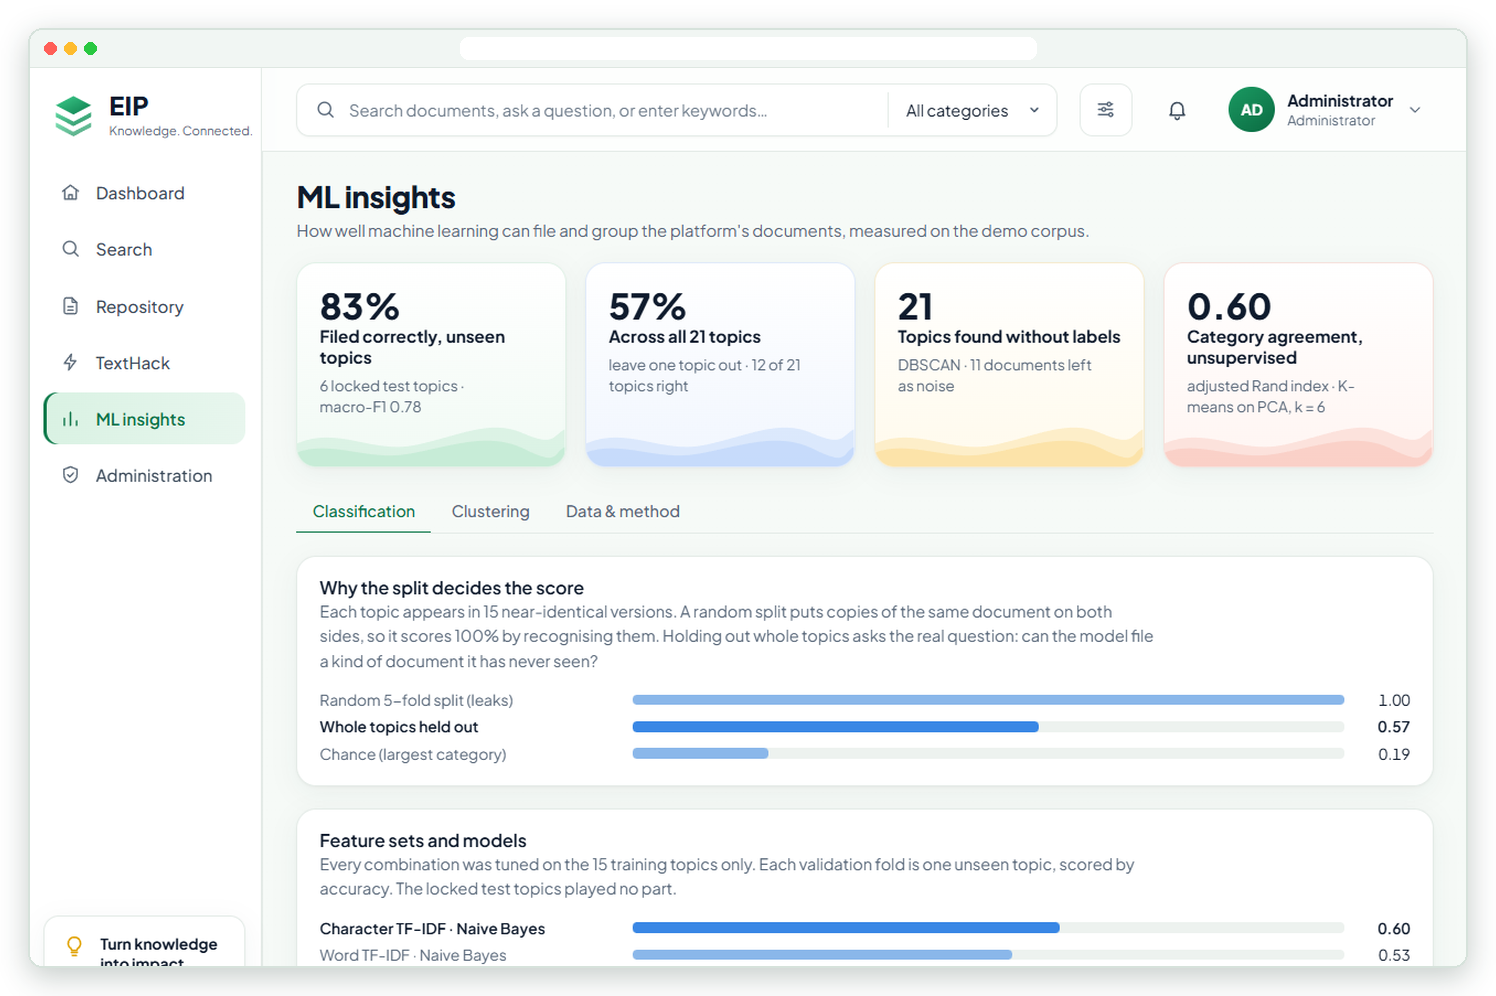
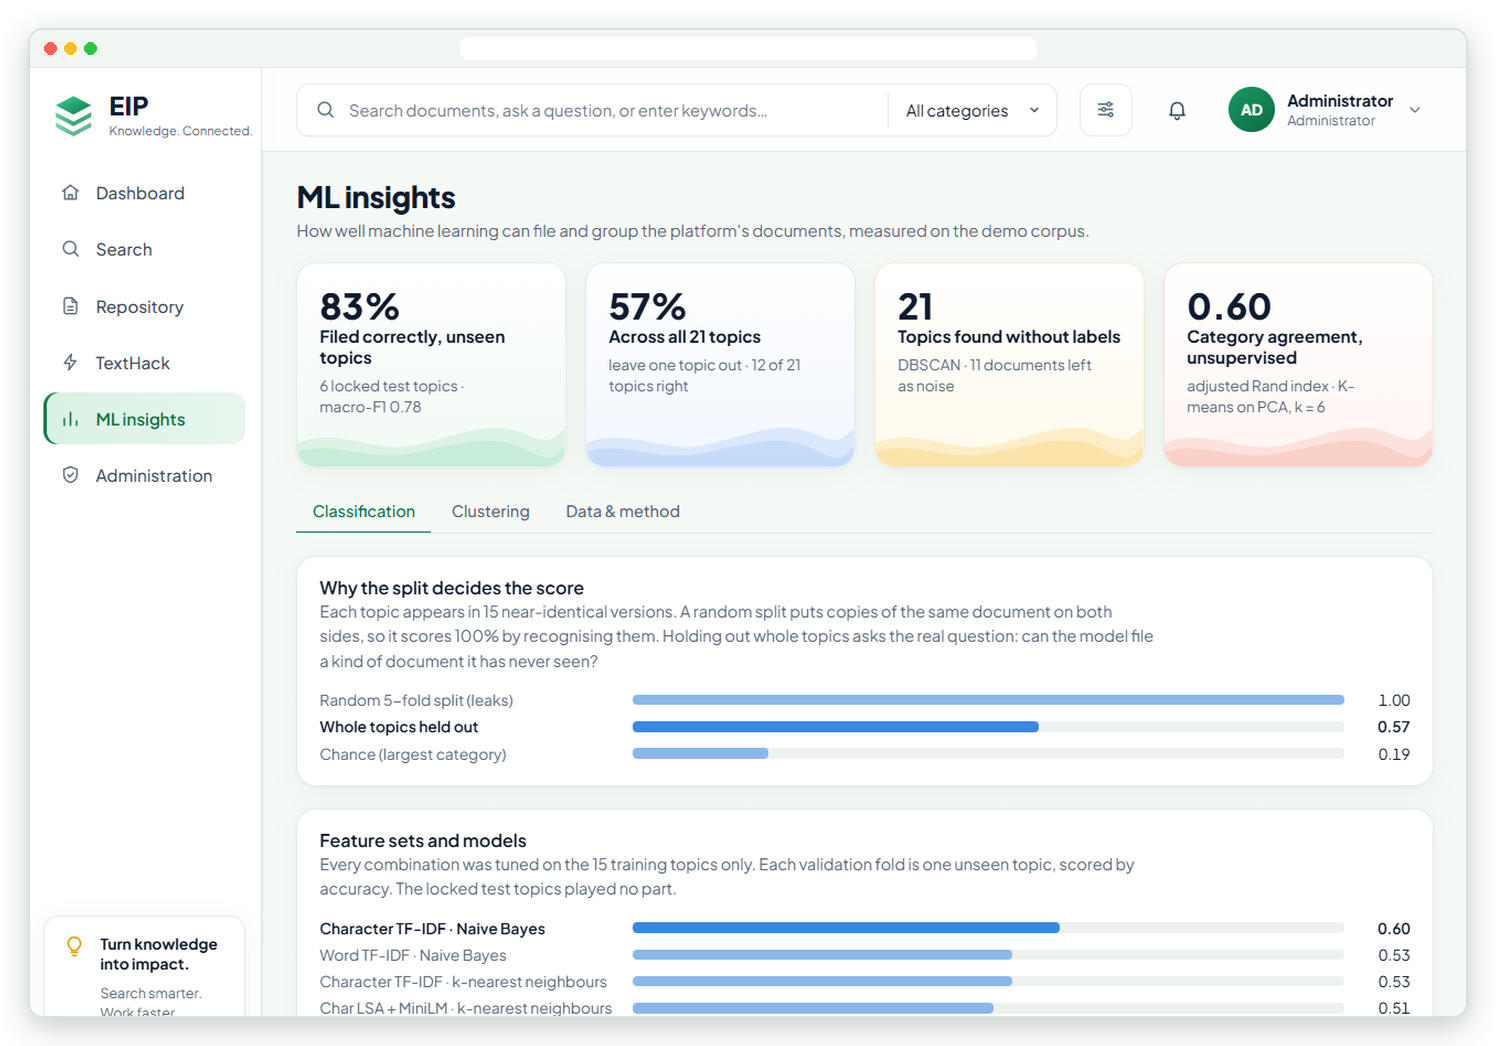
docs(readme): data model, security and roadmap sections; readable cards; fresh screenshots
- polyglot, ER and authorisation diagrams from the report, built for the README
- subject and result cards redrawn at GitHub's width so their text keeps its size
- search screenshot after the relevance fix (15 results, not 152) and the
  TextHack workbench with its matches
- every SVG checked with the widest fallback fonts (Arial, Courier New)

diff --git a/README.md b/README.md
@@ -93,7 +93,7 @@ It is one integrated project built across four courses. Each course owns a part 
   <tr>
     <td valign="top">
       <img src="docs/screenshots/texthack-workbench.png" alt="TextHack workbench, pattern search tab">
-      <p align="center"><b>TextHack workbench</b><br><sub>Pattern search, similarity, citation flow and complexity, run on your own input.</sub></p>
+      <p align="center"><b>TextHack workbench</b><br><sub>Aho-Corasick finds all 11 matches of three patterns in one pass; similarity, citation flow and complexity sit alongside.</sub></p>
     </td>
     <td valign="top">
       <img src="docs/screenshots/ml-insights.png" alt="ML insights page with classification results">
@@ -141,6 +141,35 @@ Keyword matching reads the title, the description and the document's full text, 
 <img src="docs/readme/upload-pipeline.svg" alt="Upload pipeline: validate and extract, write PostgreSQL, chunk, write MongoDB, version, embed into Qdrant; any failure is undone in reverse order" width="100%">
 
 The upload is a small saga: if any step after the first database write fails, the earlier writes are undone in reverse order, so no store is left with half a document.
+
+### Data model
+
+<img src="docs/readme/polyglot.svg" alt="One document across three stores: its PostgreSQL row, its MongoDB text and chunks, and its Qdrant vectors, all keyed by PostgreSQL id 44" width="100%">
+
+Every document has one identity: its PostgreSQL id. MongoDB stores it as `postgres_document_id` and every Qdrant point carries it in its payload, so the three stores join on the same key.
+
+<details>
+<summary><b>PostgreSQL schema: 12 tables</b></summary>
+
+<br>
+
+<img src="docs/readme/er-diagram.svg" alt="Entity-relationship diagram of the 12 PostgreSQL tables: users, roles, permissions, documents, categories, versions, grants, tags and search history" width="100%">
+
+Full column-level detail is in the [data dictionary](subjects/DBE-DSD/database/postgresql/docs/DATA_DICTIONARY.md).
+
+</details>
+
+### Security
+
+<p align="center">
+  <img src="docs/readme/security.svg" alt="Every request passes the JWT filter, the endpoint's permission check and the single document read rule before reaching a controller" width="80%">
+</p>
+
+- **Passwords** are BCrypt hashes, and a failed sign-in never reveals whether the account exists.
+- **Tokens** are HS256 JWTs valid for 24 hours and only while the account is enabled. The signing secret has no default.
+- **Permissions, not role names,** guard every endpoint: ADMIN holds all six, MANAGER create, read and update, EMPLOYEE read.
+- **Uploads** are capped at 10 MB, with XML external entities disabled and a 64 MB unzip limit for Word files.
+- **No secrets in the repository:** every credential comes from environment variables.
 
 ## Results
 
@@ -215,6 +244,17 @@ enterprise-knowledge-intelligence/
 ├── .github/workflows/            Backend and Frontend CI
 └── render.yaml                   Render Blueprint for the backend
 ```
+
+## Limitations and roadmap
+
+| Today | Next step |
+|---|---|
+| Body matching is exact (no typo tolerance) and scans every body in MongoDB | Take candidates from the `content.raw_text` text index or Atlas Search |
+| Restricted users can get fewer semantic hits, because permissions are applied after Qdrant's top-K | Pass the readable ids to Qdrant as a payload filter |
+| No OCR for scanned PDFs | Add an OCR step to text extraction |
+| Embedding runs inside the upload request | Move it to a background job for large files |
+| ML results are displayed, not served | Suggest a category when a document is uploaded |
+| ShellForge runs on its own | Job control, FIFOs, shared memory and threads from the rest of the OSSP syllabus |
 
 ## Documentation and reviews
 
